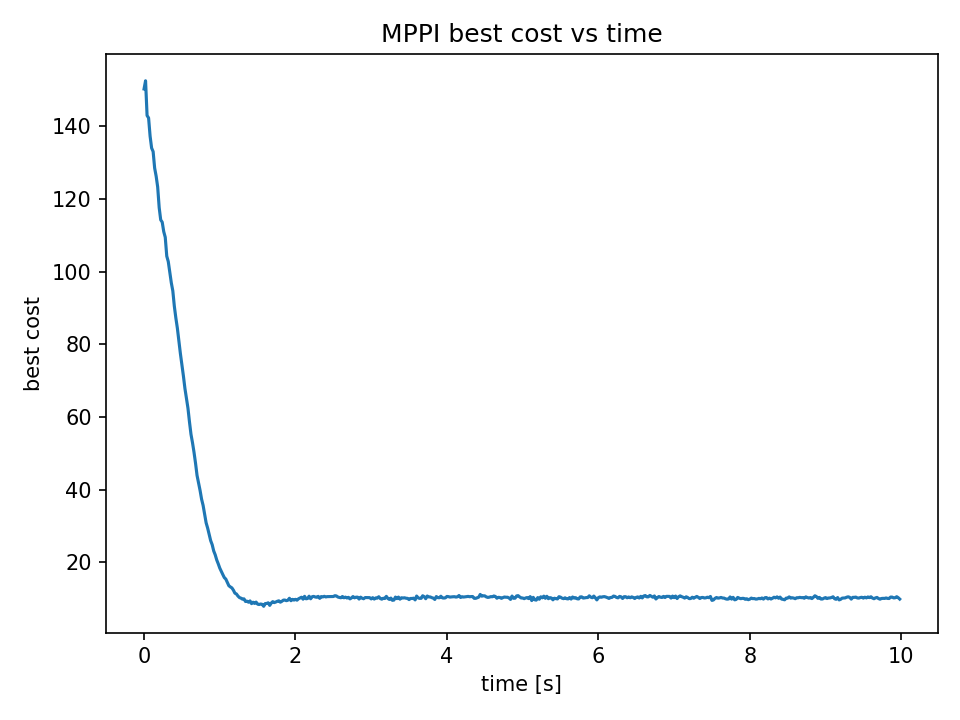
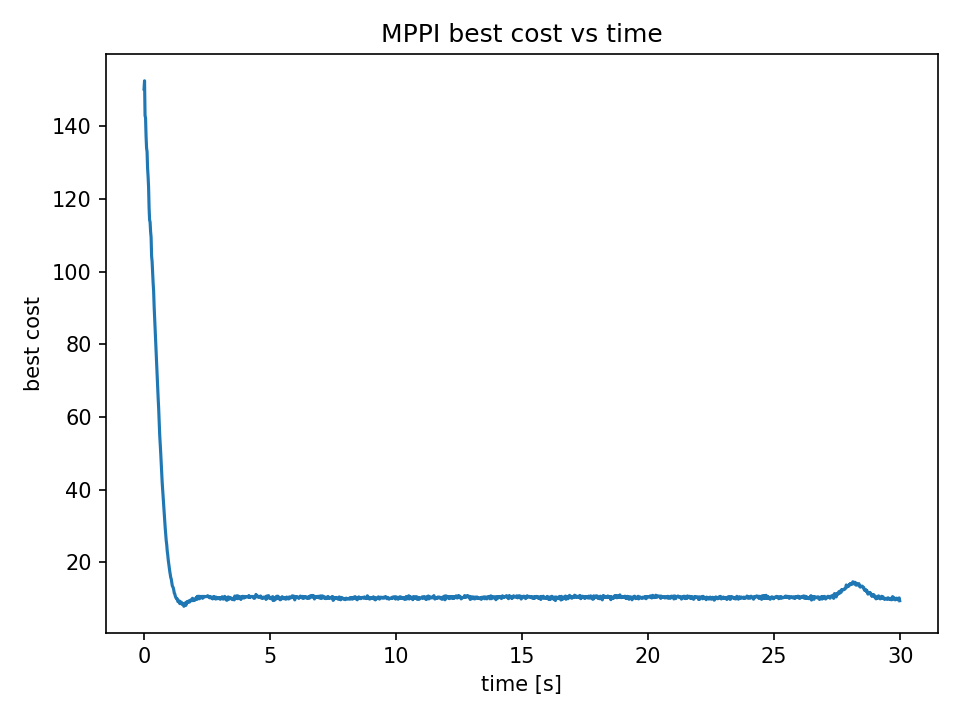
Run Quad3D demo longer for clearer obstacle avoidance

diff --git a/experiments/demo_quad3d_mppi_avoid.py b/experiments/demo_quad3d_mppi_avoid.py
@@ -40,7 +40,7 @@ def main():
     hover = quad.m * quad.g
     ctrl.U = ctrl.U.at[:, 0].set(hover)
 
-    Tfinal = 10.0
+    Tfinal = 30.0
     dt = mppi_cfg.dt
     steps = int(Tfinal / dt)
 
@@ -50,7 +50,7 @@ def main():
     Jhist = np.zeros((steps,), dtype=np.float32)
     thist = np.zeros((steps,), dtype=np.float32)
 
-    save_every = 5
+    save_every = 10
     frame_idx = 0
 
     for k in range(steps):
